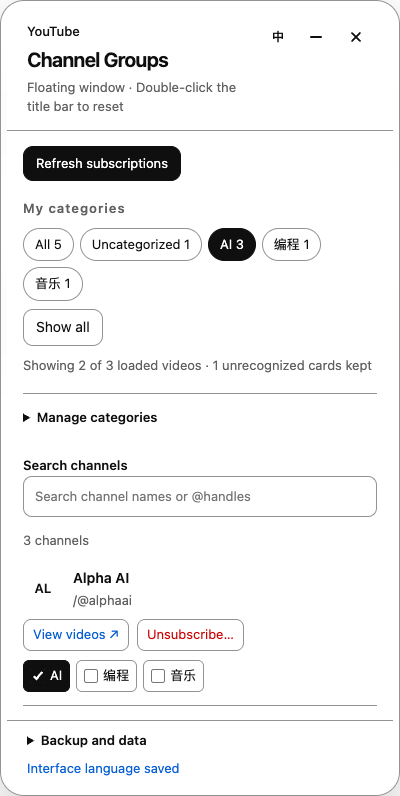
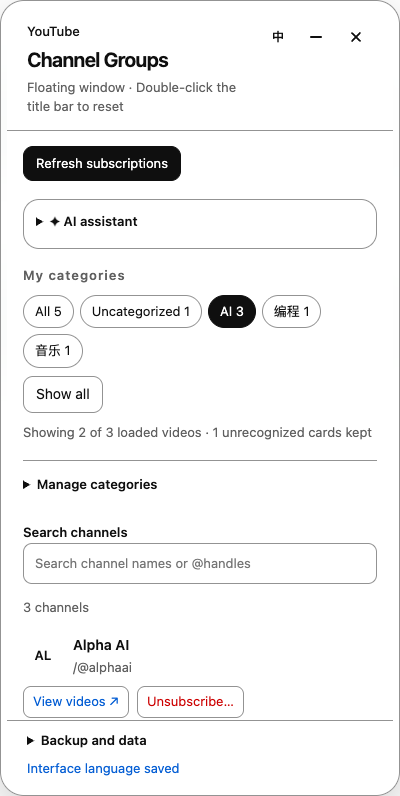
feat: place the AI assistant right below Refresh subscriptions (v0.15.1)
Update the README screenshots and changelog to match.

diff --git a/extension/content.js b/extension/content.js
@@ -223,11 +223,10 @@
         node("li", {text: "在“管理分类”中创建分类并勾选频道，或展开“AI 分类助手”自动分类。"}),
         node("li", {text: "在“订阅视频”页面点击分类，筛选要看的视频。"})
       ])]),
-      node("div", {class: "tools"}, [syncButton, collectButton, currentButton]), coverage, syncReview,
+      node("div", {class: "tools"}, [syncButton, collectButton, currentButton]), assistantHome, coverage, syncReview,
       node("p", {class: "section-label", text: "我的分类"}), node("div", {class: "category-tools"}, [chips, reset]), feedStatus, feedLink,
       manageGroups,
-      node("label", {class: "control-label", for: "ycg-channel-search", text: "搜索频道"}), searchInput, count, channelList, channelPagination,
-      assistantHome
+      node("label", {class: "control-label", for: "ycg-channel-search", text: "搜索频道"}), searchInput, count, channelList, channelPagination
     ]),
     node("footer", {class: "footer"}, [node("details", {class: "footer-menu"}, [node("summary", {text: "备份与数据"}), node("div", {class: "tools"}, [
       exportFormat, button("导出备份", () => run(exportState, "备份已生成")),

diff --git a/README.md b/README.md
@@ -41,10 +41,11 @@ cd YouTubeChannelGroups
 
 已安装本机 `extension` 目录的用户：在扩展管理页面点击该扩展的刷新按钮，再刷新 YouTube。加载 ZIP 副本的用户，应先导出备份，再更新同一个扩展目录。不要把新版作为另一个扩展安装，否则两者的数据不会共享。
 
-从旧版本更新至 v0.15.0 只需刷新同一个扩展。从 v0.14.1 或更早版本更新、并使用本机 Codex／Claude 的用户，请重新运行一次安装器，以更新本机小助手（v0.14.2 修复了临时文件残留）。浏览器扩展列表中的名称会按浏览器语言显示中文或英文。若之前未选择过界面语言，界面将改为跟随浏览器语言；可用面板标题栏的“中／EN”按钮切换。
+从旧版本更新至 v0.15.1 只需刷新同一个扩展。从 v0.14.1 或更早版本更新、并使用本机 Codex／Claude 的用户，请重新运行一次安装器，以更新本机小助手（v0.14.2 修复了临时文件残留）。浏览器扩展列表中的名称会按浏览器语言显示中文或英文。若之前未选择过界面语言，界面将改为跟随浏览器语言；可用面板标题栏的“中／EN”按钮切换。
 
 ## 最近更新
 
+- **v0.15.1**：“AI 分类助手”移到“刷新订阅”正下方。
 - **v0.15.0**：面板更精简，频道列表更靠前；“自动加载全部订阅”并入“刷新订阅”；首次使用显示三步引导；最小化时的消息可被读屏读到，小图标显示提示点；Esc 先撤销最近的操作再关闭面板；扩展名称按浏览器语言显示。
 - **v0.14.2**：安全与数据保护修复：小助手临时文件清理（需重新运行安装器）、页面脚本无法代点按钮、“刷新订阅”防误删、名称修复只在需要时运行。
 - **v0.14.1**：“取消关注…”以按钮状态判断是否成功，不再因确认框样式不同而漏记。

diff --git a/CHANGELOG.md b/CHANGELOG.md
@@ -2,6 +2,10 @@
 
 版本号同时写在 `extension/manifest.json`、`package.json` 和 `package-lock.json`。本机小助手（Native Messaging helper）单独编号，当前为 0.3.0；它的变更在对应版本中注明，需要重新运行安装器才会更新。
 
+## v0.15.1
+
+- “AI 分类助手”移到“刷新订阅”正下方。
+
 ## v0.15.0
 
 界面整理（全局检查 P1）与发布准备（P2）。
